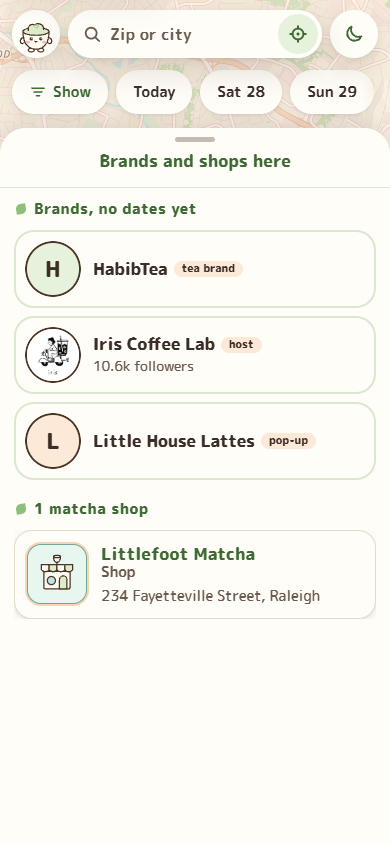
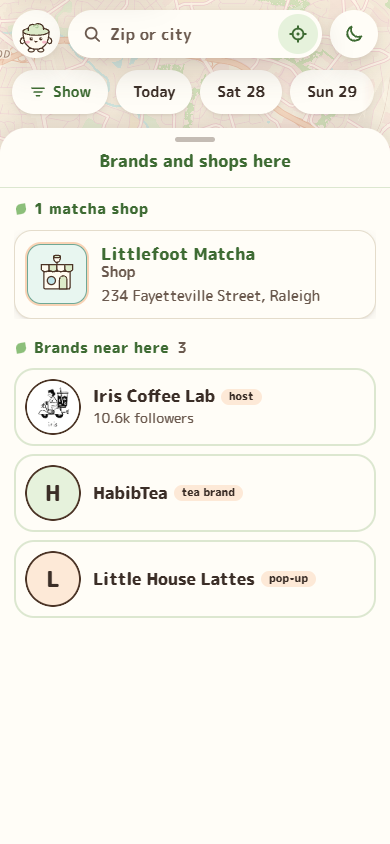
List: "Brands near here" after the pop-ups and shops, most followed first, three rows until Show all
The brand section moves below the shops and never sits above one. It reads "Brands near here"
with the count, orders by followers (brands.json) then name, and shows three rows with a
"Show all N" button (Show fewer when open). Tests cover the order, the collapse and the
section order in renderList.

Changed region(s): [[0.0308, 0.2156, 0.9846, 0.7393], [0.9538, 0.6469, 0.9846, 0.6777], [0.9538, 0.3389, 0.9846, 0.3697]]

diff --git a/site/app.js b/site/app.js
@@ -1375,7 +1375,7 @@
   // Where distances are measured from: the visitor's place, else the middle of the map.
   function refPoint() { if (state.userLoc) return state.userLoc; var c = map.getCenter(); return [c.lat, c.lng]; }
 
-  var apOpen = {};
+  var apOpen = {}, brandsAll = false;
   // Series rows (site/series.js, design rung 5): with no date filter one row stands for a whole series, at its next date;
   // seriesN holds those rows' keys and how many dates each stands for. A date filter lists every date, as before.
   var seriesN = {};
@@ -1396,7 +1396,7 @@
     var cmp = state.userLoc ? function (a, b) { return (distOf(a) - distOf(b)) || byStart(a, b); } : byStart;
     past.sort(state.userLoc ? cmp : function (a, b) { return -byStart(a, b); });
     var brands = visibleBrands().filter(function (it) { return inView(it.ll); });
-    brands.sort(state.userLoc ? cmp : function (a, b) { return a.name.localeCompare(b.name); });
+    brands.sort(function (a, b) { return a.name.localeCompare(b.name); }); // cards.js orders by followers when it is loaded
     var shopsIn = visibleShops().filter(function (it) { return inView(it.ll); });
     shopsIn.sort(state.userLoc ? cmp : function (a, b) { return a.name.localeCompare(b.name); });
 
@@ -1421,12 +1421,16 @@
       html += "<li class=\"apgroup\"><button type=\"button\" class=\"aprow\" data-ap-open=\"" + esc(k) + "\" aria-expanded=\"" + open + "\"><span class=\"apl\">" + (placed.length ? g.length + " more" : g.length + " pop-up" + (g.length === 1 ? "" : "s")) + " in " + esc(city) + "</span><span class=\"apq\">place not posted yet</span></button></li>" + (open ? rowsHTML(g, true) : "");
     });
     if (past.length) html += headHTML("Recent") + rowsHTML(past);
-    if (brands.length) html += headHTML("Brands, no dates yet") + rowsHTML(brands);
     if (shopsIn.length) {
       if (map.getZoom() >= 8) {
         var cap = 80, more = shopsIn.length - cap;
         html += headHTML(shopsWords(shopsIn), 0, "shophead") + rowsHTML(shopsIn.slice(0, cap)) + (more > 0 ? "<li class=\"shopnote\">+" + more + " more · zoom in</li>" : "");
       } else html += headHTML(shopsWords(shopsIn), 0, "shophead") + "<li class=\"shopnote\">Zoom in to see them</li>";
+    }
+    // Brands last, never above a shop (2026-11-23): most followed first, three rows until "Show all".
+    if (brands.length) {
+      var MC = window.MatchaCards, bs = MC && MC.brandSection && MC.brandSection(brands, { open: brandsAll, row: function (it) { return rowHTML(it); } });
+      html += bs || headHTML("Brands near here", brands.length, "brhead") + rowsHTML(brands);
     }
 
     // Empty: nothing on for the chosen dates anywhere, or nothing in this part of the map. Sleepy Mattie, one line, the
@@ -1495,6 +1499,7 @@
   }
   $("list").addEventListener("click", function (ev) {
     if (ev.target.closest("[data-clear-ap]")) { state.apCity = ""; renderList(false); return; }
+    if (ev.target.closest("[data-brands-all]")) { brandsAll = !brandsAll; renderList(false); var ba = document.querySelector("#list [data-brands-all]"); if (ba) ba.focus(); return; }
     var ap = ev.target.closest("[data-ap-open]");
     if (ap) { var k = ap.getAttribute("data-ap-open"); apOpen[k] = !apOpen[k]; renderList(false); var again = document.querySelector("#list [data-ap-open=\"" + k.replace(/"/g, "") + "\"]"); if (again) again.focus(); return; }
     var b = ev.target.closest("button[data-key]");

diff --git a/test/cards.test.js b/test/cards.test.js
@@ -296,3 +296,31 @@ test("links in: the foot links to the city page and the brand name to its brand 
   assert.doesNotMatch(cardHtml(e, { base: "/", page: true }), /mm-morecity|mm-bname-link/);
   assert.match(cardHtml(e, { cityHref: () => "/city/nc/raleigh/" }), /More in Raleigh/, "a plain string works and takes the event's city name");
 });
+
+test("brand section: Brands near here with the count, most followed first then by name, three rows until Show all", async () => {
+  const { brandSectionHtml, brandOrder } = await import("../site/cards.js");
+  const it = (id, brand, instagram) => ({ key: "b:" + id, data: { id, brand, instagram, kind: "popup" } });
+  const brands = { brands: [{ handle: "big", followers: 90000 }, { handle: "mid", followers: 4000 }, { handle: "mid2", followers: 4000 }, { handle: "small", followers: 300 }] };
+  const list = [it("z", "Zed", null), it("s", "Small", "small"), it("m2", "Bravo", "mid2"), it("b", "Big", "big"), it("m", "Alpha", "mid"), it("a", "Aaa", null)];
+  assert.deepEqual(brandOrder(list, { brands }).map((x) => x.data.brand), ["Big", "Alpha", "Bravo", "Small", "Aaa", "Zed"]);
+  const shut = brandSectionHtml(list, { brands });
+  assert.match(shut, /^<li class="head brhead">Brands near here <span class="n">6<\/span><\/li>/);
+  assert.equal((shut.match(/class="mm-row mm-brow"/g) || []).length, 3, "three rows");
+  assert.match(shut, /data-brands-all aria-expanded="false">Show all 6</);
+  const open = brandSectionHtml(list, { brands, open: true });
+  assert.equal((open.match(/class="mm-row mm-brow"/g) || []).length, 6);
+  assert.match(open, /aria-expanded="true">Show fewer</);
+  const three = brandSectionHtml(list.slice(0, 3), { brands });
+  assert.equal((three.match(/class="mm-row mm-brow"/g) || []).length, 3);
+  assert.doesNotMatch(three, /data-brands-all/, "no button for three or fewer");
+  assert.equal(brandSectionHtml([], { brands }), "");
+});
+
+test("the app's list puts brands after the pop-ups and the shops", async () => {
+  const fs = await import("node:fs");
+  const app = fs.readFileSync(new URL("../site/app.js", import.meta.url), "utf8");
+  const body = app.slice(app.indexOf("function renderList("), app.indexOf("var NEXT_RANGE"));
+  const shops = body.indexOf("shopsWords(shopsIn)"), brands = body.indexOf("MC.brandSection"), pops = body.indexOf("Pop-ups <span");
+  assert.ok(pops > 0 && shops > pops && brands > shops, "pop-ups, then shops, then brands");
+  assert.doesNotMatch(app, /Brands, no dates yet|No dates posted here yet/);
+});

diff --git a/site/cards.js b/site/cards.js
@@ -648,6 +648,24 @@ export function brandRowHtml(brand, ctx = {}) {
   return `<button type="button" class="mm-row mm-brow"${id ? ` data-key="b:${esc(id)}"` : ""}>${inner}</button>`;
 }
 
+// The list's brand section (2026-11-23): "Brands near here" with the count, after the pop-ups and the shops, most
+// followed first (brands.json), then by name; three rows until "Show all N" is pressed (ctx.open). items: the app's
+// brand items ({ key, data: sources.json record }); ctx.row(item) draws a row (the app passes its own, with distance).
+export const BRANDS_SHOWN = 3;
+export function brandOrder(items, ctx = {}) {
+  const fol = (it) => { const h = String((it.data && (it.data.instagram || it.data.handle)) || "").replace(/^@/, "").toLowerCase(), b = h && byKey(ctx.brands, h, "handle"); return b && typeof b.followers === "number" ? b.followers : -1; };
+  const nm = (it) => String((it.data && (it.data.brand || it.data.name)) || "").toLowerCase();
+  return items.map((it) => [it, fol(it), nm(it)]).sort((a, b) => b[1] - a[1] || (a[2] < b[2] ? -1 : a[2] > b[2] ? 1 : 0)).map((x) => x[0]);
+}
+export function brandSectionHtml(items, ctx = {}) {
+  if (!Array.isArray(items) || !items.length) return "";
+  const list = brandOrder(items, ctx), n = list.length, open = !!ctx.open || n <= BRANDS_SHOWN;
+  const row = typeof ctx.row === "function" ? ctx.row : (it) => brandRowHtml(it.data, ctx);
+  return `<li class="head brhead">Brands near here <span class="n">${n}</span></li>` +
+    (open ? list : list.slice(0, BRANDS_SHOWN)).map((it) => `<li>${row(it)}</li>`).join("") +
+    (n > BRANDS_SHOWN ? `<li class="brmore"><button type="button" class="brall" data-brands-all aria-expanded="${open}">${open ? "Show fewer" : "Show all " + n}</button></li>` : "");
+}
+
 // ---- DOM forms -----------------------------------------------------------------------------------------------
 function toEl(html, ctx) {
   const doc = ctx.document || (typeof document !== "undefined" ? document : null);

diff --git a/site/cards-app.js b/site/cards-app.js
@@ -7,7 +7,7 @@
 // Share buttons, picture fallbacks and "Also nearby" links are handled by delegated listeners on the document, so the
 // app does not need to call anything after it sets innerHTML. Set window.MatchaCards.open = function (key) {...} to
 // open an also-nearby pop-up in place (key "e:<id>"); without it the link is a normal deep link (?event=<id>).
-import { cardHtml, rowHtml, brandCardHtml, brandRowHtml, wire, fitQuotes } from "./cards.js";
+import { cardHtml, rowHtml, brandCardHtml, brandRowHtml, brandSectionHtml, wire, fitQuotes } from "./cards.js";
 import { shopCardHtml, menuForBrand } from "./shopcard.js"; // the storefront card ("s:<id>"); the brand card's menu
 
 const data = { art: null, brands: null, sources: null, places: null, menus: null };
@@ -75,7 +75,9 @@ function row(item, ctx) {
   return rowHtml(item.data, { ...context(ctx), series: ctx && ctx.series > 0 ? ctx.series : 0 });
 }
 
-window.MatchaCards = Object.assign(window.MatchaCards || {}, { render, row, ready });
+// The list's "Brands near here" section (app.js renderList): ctx { open, row(item) }.
+function brandSection(list, ctx) { return brandSectionHtml(list, { ...context(ctx), ...(ctx || {}) }); }
+window.MatchaCards = Object.assign(window.MatchaCards || {}, { render, row, ready, brandSection });
 wire(document.documentElement);
 // the quote's "more" link shows only when the clamp really hid text: measure once the card is in the DOM
 document.addEventListener("mm:card", (ev) => { try { fitQuotes(ev.detail && ev.detail.root); } catch (e) { /* no quote */ } });

diff --git a/site/style.css b/site/style.css
@@ -524,6 +524,9 @@ dialog .credit { font-size: 14px; color: var(--muted); }
 .row.shoprow-sv .th-shop .sh-win { fill: var(--sv-win); }
 .row .th.th-shop { background: var(--shmint-pale); border-color: var(--shmint-edge); }
 .th-shop .ch { display: block; width: 40px; height: 40px; }
+.list li.brmore { margin: 0; }
+.list .brall { width: 100%; min-height: 48px; padding: 10px 16px; border-radius: var(--r); border: 1.5px dashed var(--line); background: transparent; color: var(--deep); font: inherit; font-size: 15px; font-weight: 800; text-align: left; cursor: pointer; }
+.list .brall:hover { background: var(--foam); }
 .list li.shopnote { margin: 0 2px; padding: 10px 14px; border-radius: var(--r); border: 1.5px dashed var(--shmint-edge); color: var(--muted); font-weight: 700; font-size: 15px; }
 .card-shop { flex: none; display: block; width: 30px; height: 30px; }
 .card-shop .ch { display: block; width: 100%; height: 100%; }
